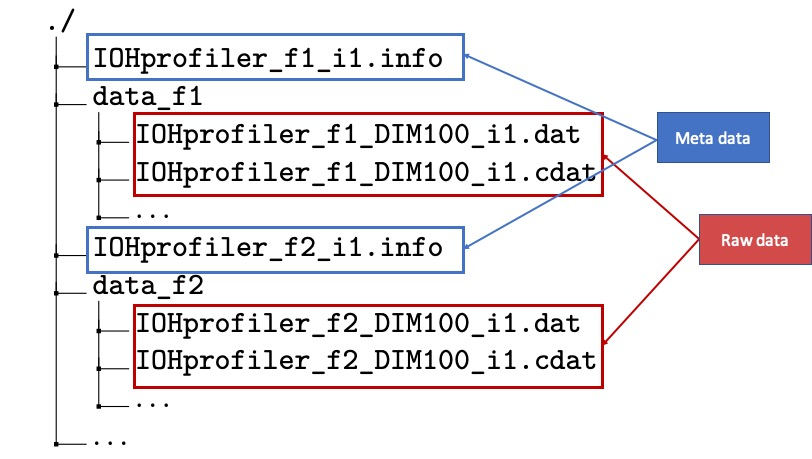
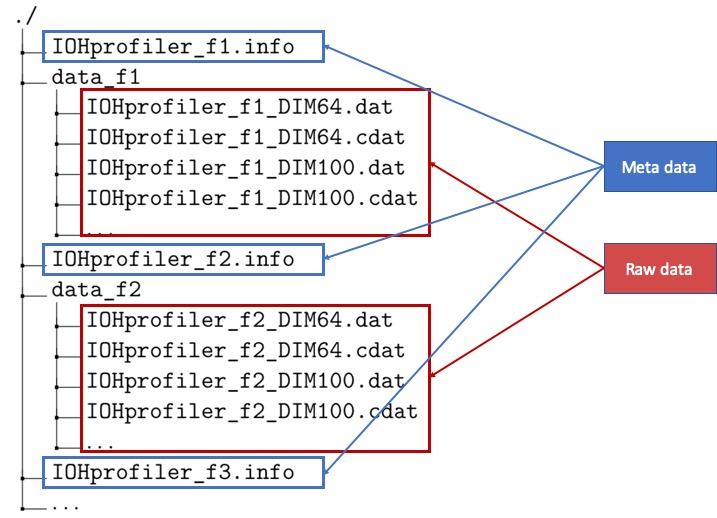
improve section on the data format

diff --git a/IOHanalyzer/data.md b/IOHanalyzer/data.md
@@ -19,14 +19,24 @@ In general, when benchmarking IOHs on several test functions/problems and dimens
 
 Generally, in the data folder (<tt>./</tt> here), the following files are mandatory for **IOHanalyzer**:
 
-* [_Meta-data_](#meta-data) (e.g., <tt>IOHprofiler_f1_i1.info</tt>) summarizes the algorithmic performance for each problem instance, with naming the following naming convention:
-
-<p style="text-align:center"><tt>IOHprofiler_f[function ID]_i[instance number].info</tt></p>
-
-* [_Raw-data_](#raw-data) (e.g., <tt>IOHprofiler_f1_DIM100_i1.dat</tt>) are CSV-like files that contain performance information indexed by the running time. Raw-data files are named in the similar manner as with the meta-data:
-
-<p style="text-align:center"><tt>IOHprofiler_f[function ID]_DIM_[dimension]_i[instance number].[t|i|c]?dat</tt></p>
-Note that, using **IOHexperimenter**, you could produce four types of raw data files: <tt>*.dat</tt>, <tt>*.idat</tt>, <tt>*.tdat</tt>, and <tt>*.cdat</tt>, which share exactly the same format and only differ in the [logging events](#logging-events) at which data are recorded.
+<ul>
+    <li><a name="meta-data"><i>Meta-data</i></a> (e.g., <tt>IOHprofiler_f1.info</tt>) summarizes the algorithmic performance for each problem instance, with naming the following naming convention:
+    <p style="text-align:center"><tt>IOHprofiler_f&lt<code>function ID</code>&gt[_<code>function name</code>].info</tt></p>  
+    <ul style="margin-left:-15px;">
+        <li> Here, &lt<code>function ID</code>&gt is required. [_<code>function name</code>] is optional.
+        <li><code>function ID</code>: can take  either an integer or a string as its value.</li>
+        <li><code>function name</code> is only <i>optional</i> and is typically when the function ID is an integer.</li>
+    </ul>
+    </li>
+    <li><a name="raw-data"><i>Raw-data</i></a> (e.g., <tt>IOHprofiler_f1_DIM100.dat</tt>) are CSV-like files that contain performance information indexed by the running time. Raw-data files are named in the similar manner as with the meta-data:
+    <p style="text-align:center"><tt>IOHprofiler_f&lt<code>function ID</code>&gt_DIM_&lt<code>dimension</code>&gt.[t|i|c]dat</tt></p>
+    <ul style="margin-left:-15px;">
+        <li><code>dimension</code> must be an integer.</li>
+        <li><tt>[t|i|c]</tt> indicates three choices for this option.</li>
+        <li>Using <b>IOHexperimenter</b>, you could produce four types of raw data files: <tt>*.dat</tt>, <tt>*.idat</tt>, <tt>*.tdat</tt>, and <tt>*.cdat</tt>, which share exactly the same format and only differ in the <a name="logging-events">logging events</a> at which data are recorded.</li>
+    </ul>
+    </li>
+</ul>
 
 ## <a name="meta-data"></a>Meta-data
 
@@ -55,7 +65,8 @@ A three-line structure is used for each dimension:
 * **The first line** stores some meta-information of the experiment as (key, value) pairs. Note that such pairs are separated by commas. Three keys, <tt>funcId</tt>, <tt>DIM</tt>, and <tt>algId</tt> are **case-sensitive** and **mandatory**.
 * **The second line** always starts with a single <tt>%</tt>, indicating what follows this symbol should be the general comments from the user on this experiment. _By default, it is left empty_.
 * **The third line** starts with the relative path to the actual data file, followed by the meta-information obtained on each instance, with the following format: 
-<p style="text-align:center">$$\underbrace{1}_{\text{instance number}}:\underbrace{1953125}_{\text{running time}}|\;\underbrace{5.59000\text{e+02}}_{\text{best-so-far f(x)}}$$</p>
+<p style="text-align:center">$$\underbrace{1}_{\text{instance number}}:\underbrace{1953125}_{\text{\#FE}}|\;\underbrace{5.59000\text{e+02}}_{\text{best-so-far f(x)}}$$</p>
+$\text{\#FE}$ stands for the number of function evaluations.
 
 ## <a name="raw-data"></a>Raw-data
 
@@ -83,7 +94,7 @@ The format of raw data is illustrated by the example below (with dummy data reco
 Note that, the columns and header of this format is regulated as follows:
 
 1. **[mandatory]** each _separation line_ (the line that starts with <tt>"function evaluation"</tt>) serves as a separator among different independent runs of the same algorithm. Therefore, it is clear that the data block between two separation lines corresponds to a single run a triplet of (dimension, function, instance). The _double quotation_ (<tt>"</tt>) in the separation line shall always be kept, and it cannot be replaced with single quotation (<tt>'</tt>).
-2. **[mandatory]** <tt>"function evaluation"</tt> the current number of function evaluations. In the target-based tracking file (<tt>*.dat</tt>), each block of records (as divided by the separation line) **must** end with the last function evaluation. This is critical for calculating the correct _expected running time_ (ERT) value: please see the [logging events](#logging-events) section for the detail.
+2. **[mandatory]** <tt>"function evaluation"</tt> the current number of function evaluations. In the target-based tracking file (<tt>*.dat</tt>), **a block of records (representing one independent run, separated by the separation line) MUST end with the last function evaluation, if the target value is not reached in this run**. This is critical for calculating the correct _expected running time_ (ERT) value: please see the [logging events](#logging-events) section for the detail.
 3. **[mandatory]** <tt>"best-so-far f(x)"</tt> keeps track of the best function value observed since the beginning of one run.
 4. **[optional]** <tt>"current f(x)"</tt> stands for the function value observed when the corresponding number of function evaluations is consumed.
 5. **[optional]** The value stored under <tt>"current af(x)+b"</tt> and <tt>"best af(x)+b"</tt>, are so-called _transformed_ function values obtained on each function instances that are generated by translating the original function in its domain and co-domain.
@@ -110,7 +121,7 @@ The raw data file comes in its simplest form, if we only keep the mandatory item
 ### <a name="logging-events"></a>Logging Events
 It is important to decide on which occasions data of the running algorithm should be recorded. On the one hand, it is straightforward to register the information for every function evaluation. However, this might lead to a huge amount of data to store, where some degree of data redundancy would occur since an iterative optimization heuristic would not make progress on every function evaluation. On the other hand, it is also possible to bookkeep the information of the algorithm once in a while, when an "interesting" event happens during the optimization process, e.g., the best function value found so far is improved, or the algorithm yields a numerical error. To make a trade-off here, four different data files (one mandatory and three optional ones) are provided in **IOHexperimenter**:
 
-* **[Mandatory]** _Target-based tracking_ (<tt>*.dat</tt>): a record is collected if an improvement on the <tt>"best-so-far f(x)"</tt> value is observed. Note that this data file is always generated. In this case, each block of records in the raw data **must** end with the last function evaluation. This is critical for calculating the correct _expected running time_ (ERT) value: since a new line of record would be written if an improvement on the <tt>"best-so-far f(x)"</tt> is seen, the actual running time of an algorithm is never registered if this algorithm fails to reach the final target and terminates before depleting the budget of running time.
+* **[Mandatory]** _Target-based tracking_ (<tt>*.dat</tt>): a record is collected if an improvement on the <tt>"best-so-far f(x)"</tt> value is observed. Note that this data file is always generated. **In this case, a block of records (representing one independent run) in the raw data MUST end with the last function evaluation, if the target value is not reached in this run**. This is critical for calculating the correct _expected running time_ (ERT) value: *.dat is an improvement-based tracking file, where one new line is written only if it is improving <tt>"best-so-far f(x)"</tt>. If the final target is actually reached, the line of the final FE will be recorded as the algorithm terminates in the same time. If the final target is not reached, we might loose the final number of FEs since the algorithm can stagnate and hence no new line will be written.
 * **[Optional]** _Interval tracking_ (<tt>*.idat</tt>): a record is collected every $\tau$-th function evaluation, where the interval $\tau$ can be controlled by the user. By default $\tau$ is set to zero and the interval tracking functionality is turned off.
 * **[Optional]** _Time-based tracking_ (<tt>*.tdat</tt>): a record is collected when the user-specified checkpoints on the running time are reached. These checkpoints are evenly spaced in the $\log_{10}$ scale, taking the following two forms: 1) $\{v10^i \mid i = 0, 1,2, \ldots\}$ with $v\in \{1,2,5\}$ by default and 2) $\{10^{i / t} \mid i=0, 1,2,\ldots\}$ with $t=3$ by default.
 * **[Optional]** _Complete tracking_ (<tt>*.cdat</tt>): a record is collected for every function evaluation, providing the highest granularity. This functionality is also turned off by default, as it might incur a large volume of data.

diff --git a/IOHexperimenter/IOHexperimenter.md b/IOHexperimenter/IOHexperimenter.md
@@ -13,8 +13,7 @@ This is the **benchmarking framework** for <b>I</b>terative <b>O</b>ptimization 
 * A generic framework to generate benchmarking suite for the optimization task you're insterested in,
 * A _Pseudo-Boolean Optimization_ ([PBO](/Suites/PBO/)) benchmark suite, containing 23 test problems of the kind $f\colon \\{0,1\\}^d \rightarrow \mathbb{R}$, and
 * The integration of 24 noiseless, single-objective _Black-Box Optimization Benchmarking_ ([BBOB](https://coco.gforge.inria.fr/downloads/download16.00/bbobdocfunctions.pdf)) functions on the continuous domain, namely $f\colon \mathbb{R}^d \rightarrow \mathbb{R}$. <b>We directly take the <tt>C</tt> implementation of BBOB test functions from [https://github.com/numbbo/coco](https://github.com/numbbo/coco), with some modifications to accommodate our framework.</b>
-* Logging methods to effortlesly store benchmarking data in a format compatible with __IOHanalyzer__, with future support for additional data logging options
-<!-- * (__Soon to come__) A framework which significantly simplifies algorithm designa -->
+* Logging methods to effortlessly store benchmarking data in a format compatible with __IOHanalyzer__, with future support for additional data logging options
 
 <b>IOHexperimenter</b> is available for:
 
@@ -23,19 +22,13 @@ This is the **benchmarking framework** for <b>I</b>terative <b>O</b>ptimization 
 * `Python` (under development)
 * `Java` (under development)
 
-
 ## Prerequisite
 
 Before installing <b>IOHexperimenter</b>, it is necessary to install the following dependencies:
 
 * `C++` (tested on `gcc 5.4.0`)
-* `boost.filesystem` library for logging files.
-
-To install boost library for `C++`, please visit [https://www.boost.org](https://www.boost.org). Once boost is installed, you are now able to use the IOHexperimenter in the programming language of your choise.
 
 ## Links
 
 * __Code repository__ : [https://github.com/IOHprofiler/IOHexperimenter](https://github.com/IOHprofiler/IOHexperimenter)
 * __Bug reports__: [IOHexperimenter](https://github.com/IOHprofiler/IOHexperimenter/issues)
-<!-- * __General Contact__: [iohprofiler@liacs.leidenuniv.nl](mailto:iohprofiler@liacs.leidenuniv.nl) -->
-<!-- * __Mailing List__: [IOHprofiler mailing list](https://lists.leidenuniv.nl/mailman/listinfo/iohprofiler) -->
